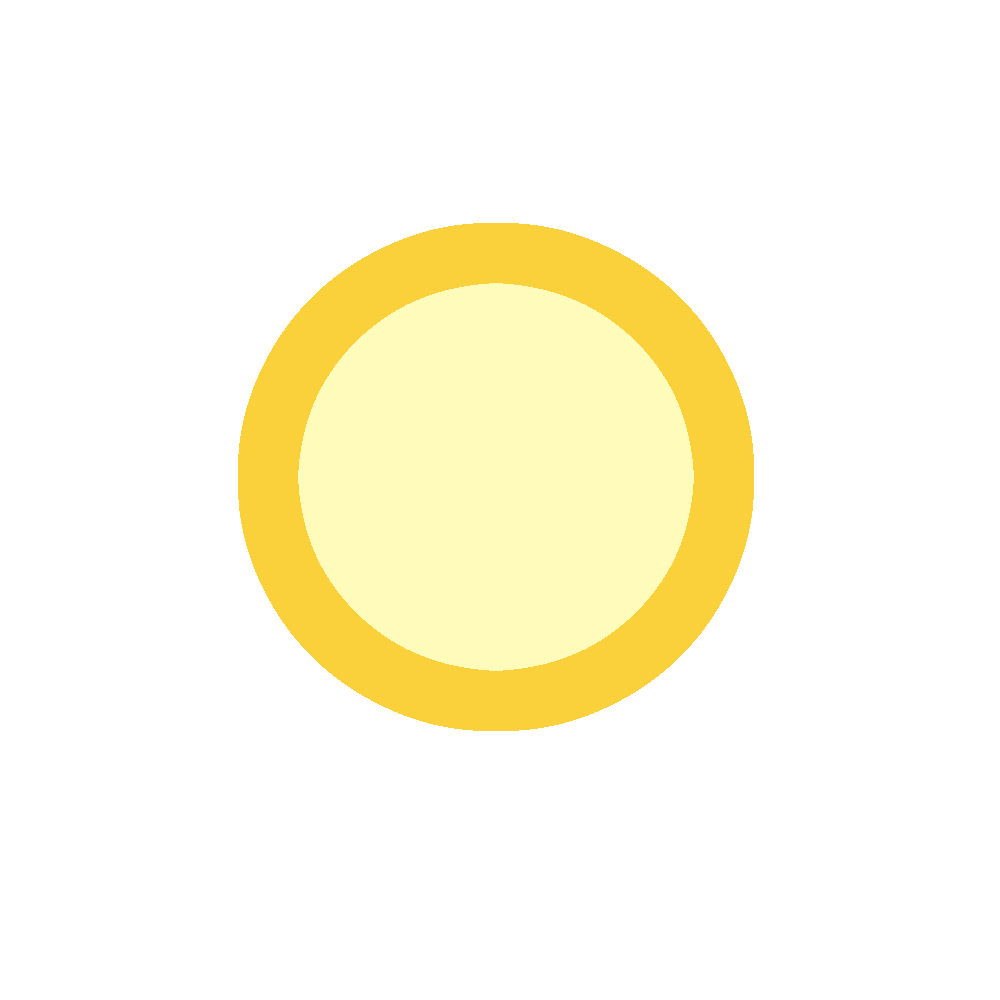
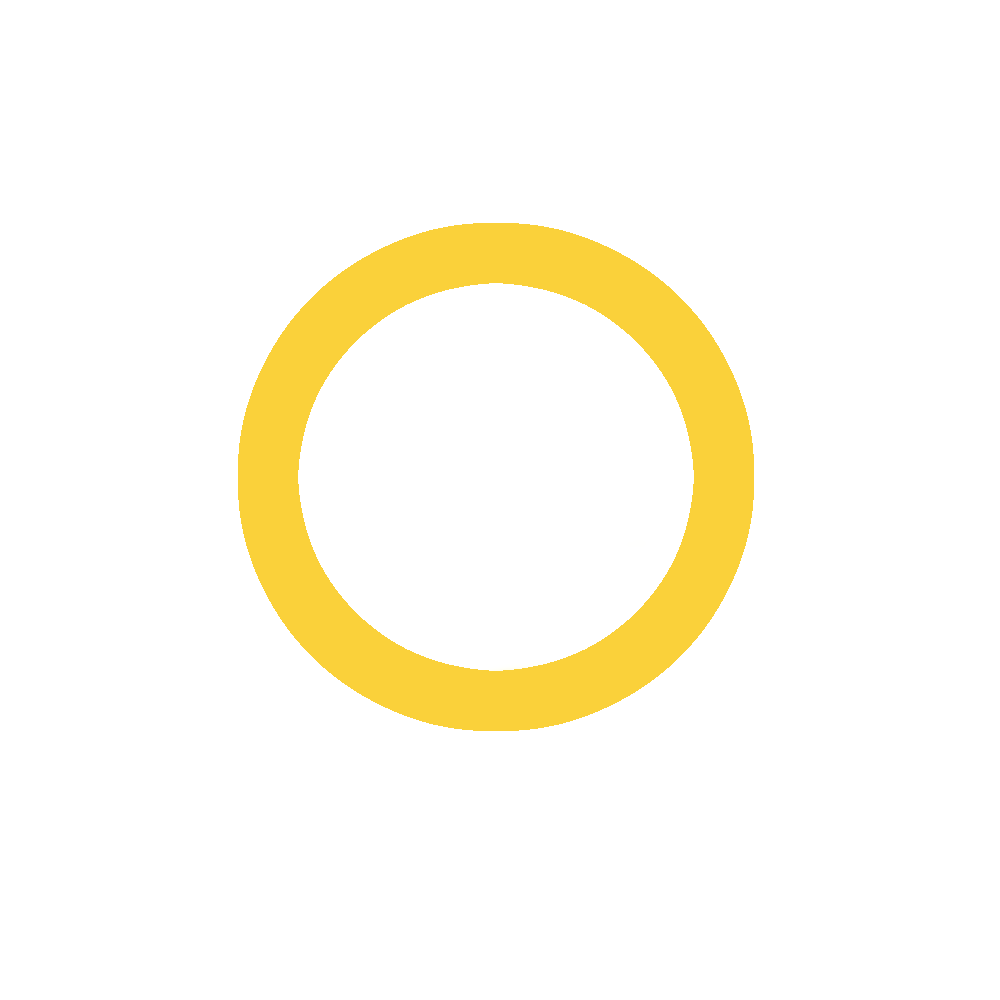
feat: Add light beams

Changed region(s): [[0.279, 0.279, 0.713, 0.682]]

diff --git a/src/game_objects/Board.cpp b/src/game_objects/Board.cpp
@@ -8,6 +8,7 @@
 #include "WallTile.h"
 #include "../Settings.h"
 #include "nlohmann/json.hpp"
+#include <algorithm>
 #include <cstddef>
 #include <optional>
 #include <string_view>
@@ -50,10 +51,10 @@ Board::Board(std::string_view filePath)
     m_floorTileTextures.push_back(
         nullptr
     );
-    for (int i {1}; i <= Settings::gridSize; ++i)
+    for (int i {0}; i < Settings::gridSize; ++i)
     {
-        std::vector<Tile*> vec(Settings::gridSize);
-        m_tiles.push_back(vec);
+        std::vector<Tile*> vec(Settings::gridSize, nullptr);
+        m_tiles.push_back(std::move(vec));
     }
     // Get level from file
     std::ifstream input_file(filePath);
@@ -71,22 +72,24 @@ Board::Board(std::string_view filePath)
             WallTile* tile{ new WallTile {
                 value,
                 m_wallTileTextures[value],
-                col * Settings::tileScale,
-                row * Settings::tileScale,
+                std::round(col * Settings::tileScale),
+                std::round(row * Settings::tileScale),
                 Settings::tileScale
             }};
-            m_tiles[row][col] = tile;
+            m_tiles[static_cast<std::size_t>(row)]
+                [static_cast<std::size_t>(col)] = tile;
         }
         else
         {
             WallTile* tile{ new WallTile {
                 WallTile::getBlankValue(),
                 m_wallTileTextures[WallTile::getBlankValue()],
-                col * Settings::tileScale,
-                row * Settings::tileScale,
+                std::round(col * Settings::tileScale),
+                std::round(row * Settings::tileScale),
                 Settings::tileScale
             }};
-            m_tiles[row][col] = tile;
+            m_tiles[static_cast<std::size_t>(row)]
+                [static_cast<std::size_t>(col)] = tile;
         }
     }
     // Create FloorTile at all other spots
@@ -102,16 +105,17 @@ Board::Board(std::string_view filePath)
             ++j
         )
         {
-            auto& tile {m_tiles[i][j]};
-            if (!tile)
-                tile = new FloorTile{
+            if (!m_tiles[i][j])
+            {
+                FloorTile* ft { new FloorTile{
                     m_floorTileTextures[2],
                     m_floorTileTextures[1],
-                    i * Settings::tileScale,
                     j * Settings::tileScale,
+                    i * Settings::tileScale,
                     Settings::tileScale
-                };
-
+                }};
+                m_tiles[i][j] = ft;
+            }
         }
     }
 }
@@ -146,6 +150,30 @@ void Board::render() const
 
 void Board::update()
 {
+    // Make tiles in same row/col illuminated
+    for (std::size_t row {0}; row < Settings::gridSize; ++row)
+    {
+        for (std::size_t col {0}; col < Settings::gridSize; ++col)
+        {
+            int numLights {0};
+            for (Tile* tile: getNeighbors(row, col))
+            {
+                if (!tile)
+                {
+                    std::cout << "No tile for row: " << row << " col: ";
+                    std::cout << col << " during Board::update()";
+                }
+                if (tile->getStatus() == TileStatus::light)
+                {
+                    numLights++;
+                }
+            }
+            if (numLights >= 1)
+                m_tiles.at(row).at(col)->setLightStatus(LightStatus::lit);
+            else
+                m_tiles.at(row).at(col)->setLightStatus(LightStatus::dark);
+        }
+    }
 }
 
 Board::~Board()
@@ -164,8 +192,8 @@ void Board::handleEvent(const SDL_Event& e)
 {
     if (e.type == SDL_EVENT_MOUSE_BUTTON_UP)
     {
-        float col {e.motion.x / (Settings::tileScale / 2)};
-        float row {e.motion.y / (Settings::tileScale / 2)};
+        float row {e.motion.x / (Settings::tileScale / 2)};
+        float col {e.motion.y / (Settings::tileScale / 2)};
         Tile* tile {
             m_tiles[static_cast<std::size_t>(col)]
                 [static_cast<std::size_t>(row)]
@@ -175,4 +203,38 @@ void Board::handleEvent(const SDL_Event& e)
         else if (tile)
             tile->click();
     }
+}
+
+std::vector<Tile*> Board::getNeighbors(std::size_t p_row, std::size_t p_col)
+{
+    std::vector<Tile*> neighbors {};
+    for (std::size_t row {p_row}; row > 0; --row)
+    {
+        if (m_tiles.at(row).at(p_col)->getStatus() == TileStatus::wall)
+            break;
+        if ((row != p_row))
+            neighbors.push_back(m_tiles.at(row).at(p_col));
+    }
+    for (std::size_t row {p_row}; row < Settings::gridSize; ++row)
+    {
+        if (m_tiles.at(row).at(p_col)->getStatus() == TileStatus::wall)
+            break;
+        if ((row != p_row))
+            neighbors.push_back(m_tiles[row][p_col]);
+    }
+    for (std::size_t col {p_col}; col < Settings::gridSize; ++col)
+    {
+        if (m_tiles.at(p_row).at(col)->getStatus() == TileStatus::wall)
+            break;
+        if ((col!= p_col))
+            neighbors.push_back(m_tiles.at(p_row).at(col));
+    }
+    for (std::size_t col {p_col}; col > 0; --col)
+    {
+        if (m_tiles.at(p_row).at(col)->getStatus() == TileStatus::wall)
+            break;
+        if ((col!= p_col))
+            neighbors.push_back(m_tiles.at(p_row).at(col));
+    }
+    return neighbors;
 }

diff --git a/src/game_objects/FloorTile.cpp b/src/game_objects/FloorTile.cpp
@@ -6,10 +6,11 @@
 #include "SDL3/SDL_render.h"
 #include "Tile.h"
 
-FloorTile::FloorTile(SDL_Texture* xTex, SDL_Texture* lTex, float x, float y, float s)
+FloorTile::FloorTile(
+    SDL_Texture* xTex, SDL_Texture* lTex, float x, float y, float s)
 : m_lightTexture {lTex}
 , m_xTexture {xTex}
-, m_isLit {}
+, m_lightStatus {LightStatus::dark}
 , m_rect {}
 , m_status {TileStatus::emptyFloor}
 {
@@ -21,11 +22,16 @@ FloorTile::FloorTile(SDL_Texture* xTex, SDL_Texture* lTex, float x, float y, flo
 
 void FloorTile::render() const
 {
-    if (m_isLit)
+    if (m_lightStatus == LightStatus::lit)
         RenderWindow::getInstance().renderFillRect(m_rect, Settings::litColor);
+    if (m_lightStatus == LightStatus::burnt)
+        RenderWindow::getInstance().renderFillRect(
+            m_rect, Settings::burntColor);
     switch (m_status) {
         case TileStatus::light:
         {
+            RenderWindow::getInstance().renderFillRect(
+                m_rect, Settings::litColor);
             RenderWindow::getInstance().renderTexture(m_lightTexture, m_rect);
             break;
         }
@@ -73,3 +79,8 @@ void FloorTile::click()
     }
 }
 
+void FloorTile::setLightStatus(LightStatus status)
+{
+    if ((status != LightStatus::maxStatuses))
+        m_lightStatus = status;
+}

diff --git a/src/game_objects/FloorTile.h b/src/game_objects/FloorTile.h
@@ -8,15 +8,16 @@ class FloorTile: public Tile
     private:
         SDL_Texture* m_lightTexture {};
         SDL_Texture* m_xTexture {};
-        TileStatus m_status {};
-        bool m_isLit {false};
+        TileStatus m_status {TileStatus::emptyFloor};
+        LightStatus m_lightStatus {LightStatus::dark};
         SDL_FRect m_rect {};
     
     public:
         FloorTile(
             SDL_Texture* xTex, SDL_Texture* lTex, float x, float y, float s);
         bool isOpaque() const override {return false;}
-        bool isLit() const override {return m_isLit;}
+        LightStatus lightStatus() const override {return m_lightStatus;}
+        void setLightStatus(LightStatus status) override;
         void render() const override;
         void update() override;
         void setStatus(TileStatus status) override;

diff --git a/src/game_objects/Tile.h b/src/game_objects/Tile.h
@@ -11,12 +11,21 @@ enum class TileStatus
     maxStatuses
 };
 
+enum class LightStatus
+{
+    dark,
+    lit,
+    burnt,
+    maxStatuses
+};
+
 class Tile: public IEntity
 {
     public:
         virtual bool isOpaque() const = 0;
         virtual ~Tile() = default;
-        virtual bool isLit() const = 0; 
+        virtual LightStatus lightStatus() const = 0; 
+        virtual void setLightStatus(LightStatus status) = 0;
         virtual void setStatus(TileStatus status) = 0;
         virtual TileStatus getStatus() const = 0;
         virtual void click() = 0;

diff --git a/src/game_objects/WallTile.h b/src/game_objects/WallTile.h
@@ -20,7 +20,8 @@ class WallTile: public Tile
         void render() const override;
         void update() override;
         static int getBlankValue() {return s_blank;}
-        bool isLit() const override {return false;} 
+        LightStatus lightStatus() const override {return LightStatus::dark;} 
+        void setLightStatus(LightStatus status) override {;}
         void setStatus(TileStatus status) override {;}
         TileStatus getStatus() const override {return TileStatus::wall;}
         void click() override {};

diff --git a/src/game_objects/Board.h b/src/game_objects/Board.h
@@ -4,6 +4,7 @@
 #include "SDL3/SDL_render.h"
 #include "Tile.h"
 #include "WallTile.h"
+#include <cstddef>
 #include <memory>
 #include <string_view>
 #include <vector>
@@ -13,6 +14,7 @@ class Board: public IEntity
         std::vector<std::vector<Tile*>> m_tiles {};
         std::vector<SDL_Texture*> m_floorTileTextures {};
         std::vector<SDL_Texture*> m_wallTileTextures {};
+        std::vector<Tile*> getNeighbors(std::size_t row, std::size_t col);
 
     public:
         Board(std::string_view filePath);

diff --git a/src/Settings.h b/src/Settings.h
@@ -12,4 +12,5 @@ namespace Settings
     inline constexpr double windowHeight {windowWidth};
     inline constexpr SDL_Color backgroundColor {106, 99, 168, 255}; 
     inline constexpr SDL_Color litColor {194, 183, 219, 255}; 
+    inline constexpr SDL_Color burntColor {233, 126, 126, 255}; 
 }

diff --git a/src/main.cpp b/src/main.cpp
@@ -33,7 +33,7 @@ int main()
         );
         // Creates a Grass Sprite
         // Main Game Loop
-        Board board {"./res/levels/normal_1.json"};
+        Board board {"./res/levels/easy_1.json"};
         SDL_Event event {};
         bool quit {false};
         while (!quit) 
